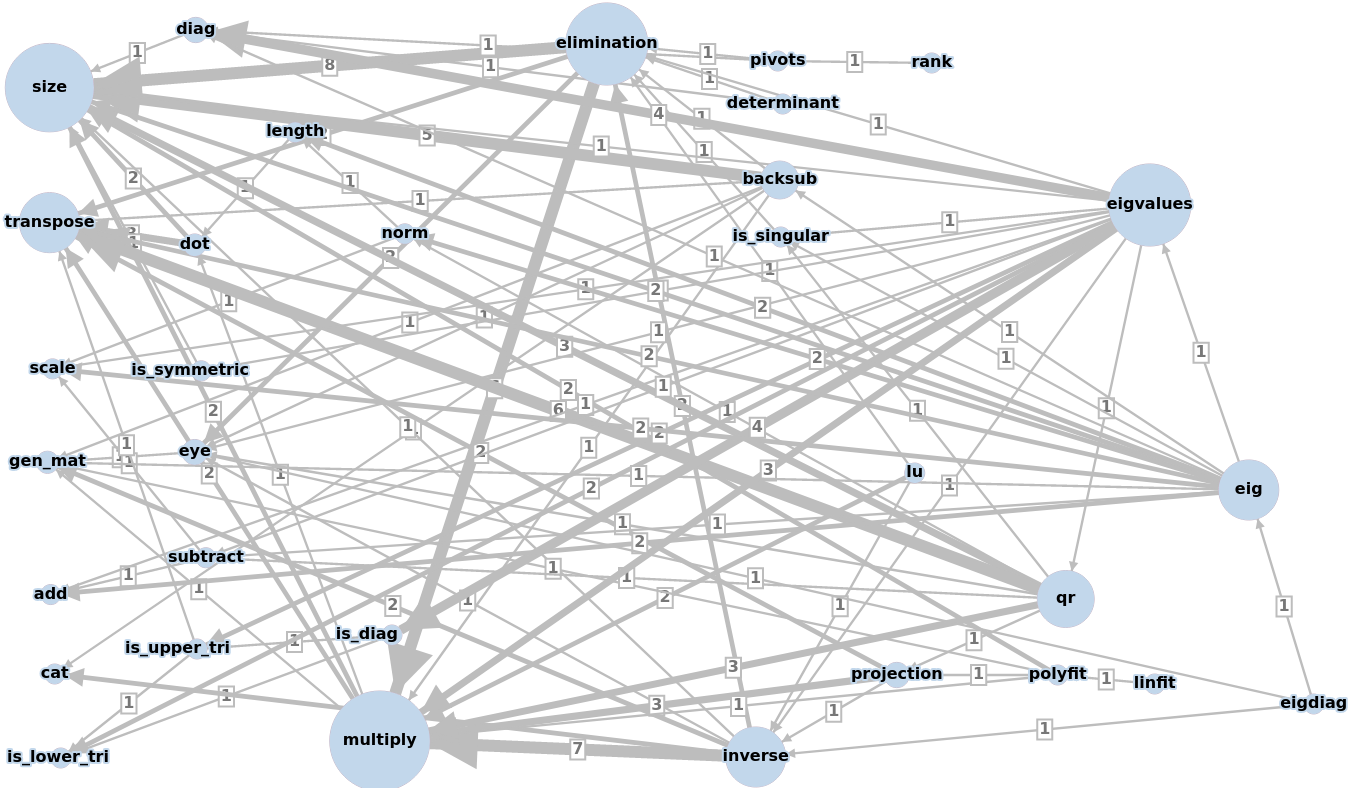
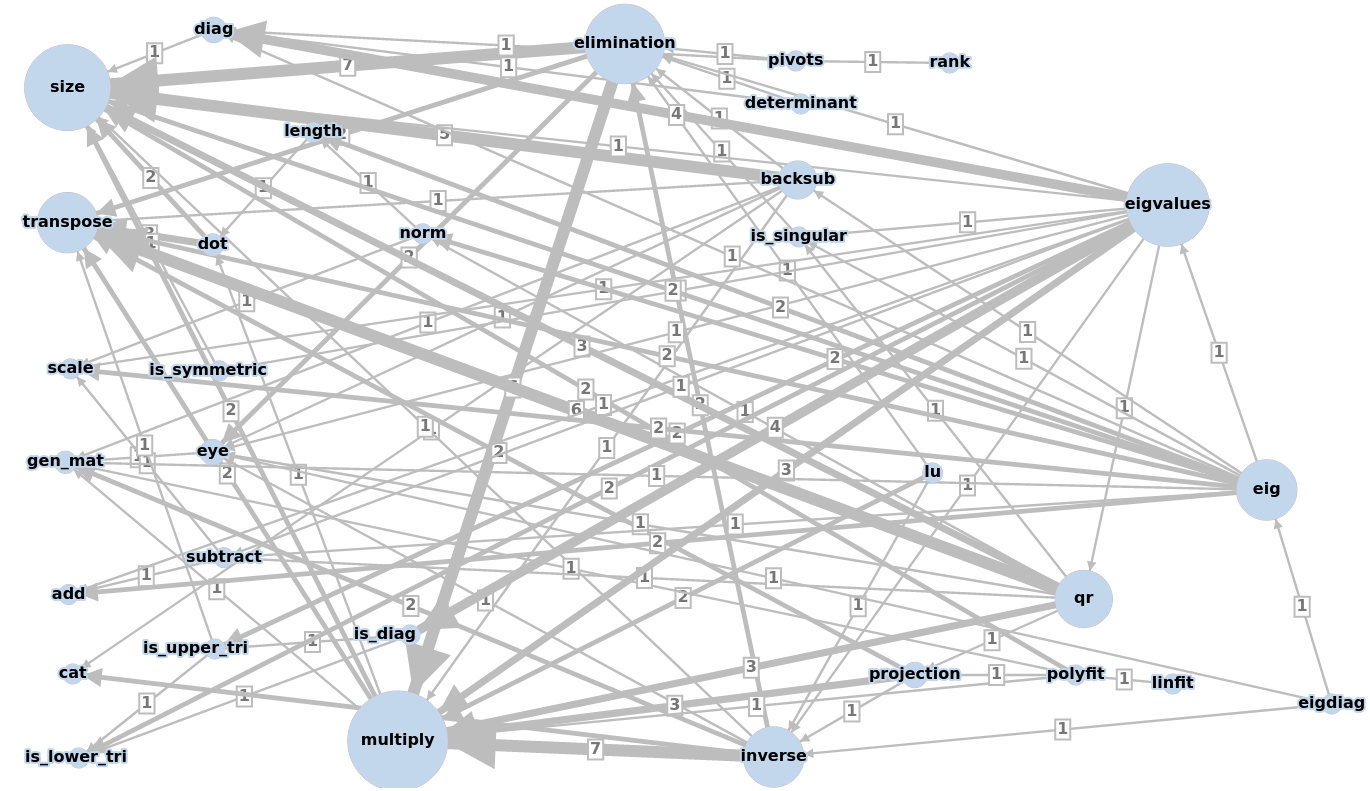
Remove redundent code. Update dependency.png

diff --git a/numpy_from_scratch/full_code.md b/numpy_from_scratch/full_code.md
@@ -174,7 +174,7 @@ class Mat:
         singular = 0
 
         # create identity matrix which we'll turn into an E matrix
-        tmpE = eye([size(A)[0], size(A)[1]])
+        tmpE = eye(size(A))
 
         # create a permutation matrix for row exchanges
         tmpP = eye([size(A)[0], size(A)[0]])

diff --git a/numpy_from_scratch/elimination.md b/numpy_from_scratch/elimination.md
@@ -109,7 +109,7 @@ def elimination(self):
     singular = 0
 
     # create identity matrix which we'll turn into an E matrix
-    tmpE = eye([size(A)[0], size(A)[1]])
+    tmpE = eye(size(A))
 
     # create a permutation matrix for row exchanges
     tmpP = eye([size(A)[0], size(A)[0]])
